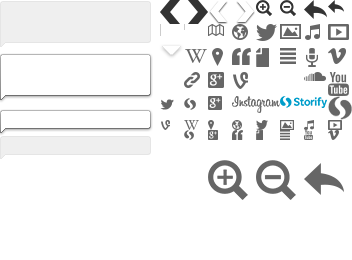
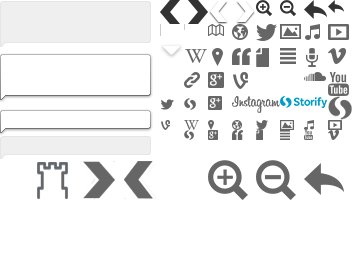
1：首页字段链接修改2：timeline工具栏优化

Changed region(s): [[0.0938, 0.6154, 0.4375, 0.7692]]

diff --git a/src/main/webapp/front/timelinef/css/timeline.css b/src/main/webapp/front/timelinef/css/timeline.css
@@ -124,7 +124,7 @@
     font-family: "Georgia",Times New Roman,Times,serif;
 }
 
-.vco-storyjs .twitter,.vco-storyjs .vcard,.vco-storyjs .messege,.vco-storyjs .credit,.vco-storyjs .caption,.vco-storyjs .zoom-in,.vco-storyjs .zoom-out,.vco-storyjs .back-home,.vco-storyjs .time-interval div,.vco-storyjs .time-interval-major div,.vco-storyjs .nav-container {
+.vco-storyjs .twitter,.vco-storyjs .vcard,.vco-storyjs .messege,.vco-storyjs .credit,.vco-storyjs .caption,.vco-storyjs .zoom-in,.vco-storyjs .zoom-next,.vco-storyjs .zoom-prev,.vco-storyjs .zoom-kk,.vco-storyjs .zoom-out,.vco-storyjs .back-home,.vco-storyjs .time-interval div,.vco-storyjs .time-interval-major div,.vco-storyjs .nav-container {
     font-family: "Helvetica Neue",Helvetica,Arial,sans-serif !important
 }
 
@@ -2025,7 +2025,7 @@
     box-shadow: 1px 1px 0 rgba(0,0,0,0.2)
 }
 
-.vco-timeline .vco-navigation .vco-toolbar .zoom-in,.vco-timeline .vco-navigation .vco-toolbar .zoom-out,.vco-timeline .vco-navigation .vco-toolbar .back-home{
+.vco-timeline .vco-navigation .vco-toolbar .zoom-in,.vco-timeline .vco-navigation .vco-toolbar .zoom-next,.vco-timeline .vco-navigation .vco-toolbar .zoom-prev,.vco-timeline .vco-navigation .vco-toolbar .zoom-kk,.vco-timeline .vco-navigation .vco-toolbar .zoom-out,.vco-timeline .vco-navigation .vco-toolbar .back-home{
     font-weight: normal;
     font-size: 10px;
     line-height: 20px;
@@ -2045,6 +2045,30 @@
 }
 
 .vco-timeline .vco-navigation .vco-toolbar .zoom-in .icon {
+    background-image: url(timeline.png?v4.4);
+    background-repeat: no-repeat;
+    background-position: -256px 0;
+    width: 24px;
+    height: 24px
+}
+
+.vco-timeline .vco-navigation .vco-toolbar .zoom-next .icon {
+    background-image: url(timeline.png?v4.4);
+    background-repeat: no-repeat;
+    background-position: -256px 0;
+    width: 24px;
+    height: 24px
+}
+
+.vco-timeline .vco-navigation .vco-toolbar .zoom-prev .icon {
+    background-image: url(timeline.png?v4.4);
+    background-repeat: no-repeat;
+    background-position: -256px 0;
+    width: 24px;
+    height: 24px
+}
+
+.vco-timeline .vco-navigation .vco-toolbar .zoom-kk .icon {
     background-image: url(timeline.png?v4.4);
     background-repeat: no-repeat;
     background-position: -256px 0;
@@ -2083,7 +2107,7 @@
     box-shadow: none
 }
 
-.vco-timeline .vco-navigation .vco-toolbar.touch .zoom-in,.vco-timeline .vco-navigation .vco-toolbar.touch .zoom-out,.vco-timeline .vco-navigation .vco-toolbar.touch .back-home {
+.vco-timeline .vco-navigation .vco-toolbar.touch .zoom-in,.vco-timeline .vco-navigation .vco-toolbar.touch .zoom-prev,.vco-timeline .vco-navigation .vco-toolbar.touch .zoom-next,.vco-timeline .vco-navigation .vco-toolbar.touch .zoom-kk,.vco-timeline .vco-navigation .vco-toolbar.touch .zoom-out,.vco-timeline .vco-navigation .vco-toolbar.touch .back-home {
     width: 40px;
     height: 40px;
     padding: 5px;
@@ -2102,9 +2126,33 @@
 }
 
 .vco-timeline .vco-navigation .vco-toolbar.touch .zoom-in .icon {
-    background-image: url(timeline.png?v4.4);
+    background-image: url(timeline.png?v4.5);
     background-repeat: no-repeat;
     background-position: -208px -160px;
+    width: 40px;
+    height: 40px
+}
+
+.vco-timeline .vco-navigation .vco-toolbar.touch .zoom-next .icon {
+    background-image: url(timeline.png?v4.5);
+    background-repeat: no-repeat;
+    background-position: -120px -160px;
+    width: 40px;
+    height: 40px
+}
+
+.vco-timeline .vco-navigation .vco-toolbar.touch .zoom-prev .icon {
+    background-image: url(timeline.png?v4.5);
+    background-repeat: no-repeat;
+    background-position: -80px -160px;
+    width: 40px;
+    height: 40px
+}
+
+.vco-timeline .vco-navigation .vco-toolbar.touch .zoom-kk .icon {
+    background-image: url(timeline.png?v4.5);
+    background-repeat: no-repeat;
+    background-position: -35px -160px;
     width: 40px;
     height: 40px
 }
@@ -2902,6 +2950,33 @@
         width: 24px;
         height: 24px
     }
+    
+    .vco-notouch .vco-navigation .vco-toolbar .zoom-kk .icon {
+        background-image:url(timeline@2x.png?v4.4);
+        background-size: 352px 260px;
+        background-repeat: no-repeat;
+        background-position: -256px 0;
+        width: 24px;
+        height: 24px
+    }
+    
+    .vco-notouch .vco-navigation .vco-toolbar .zoom-next .icon {
+        background-image:url(timeline@2x.png?v4.4);
+        background-size: 352px 260px;
+        background-repeat: no-repeat;
+        background-position: -256px 0;
+        width: 24px;
+        height: 24px
+    }
+    
+    .vco-notouch .vco-navigation .vco-toolbar .zoom-prev .icon {
+        background-image:url(timeline@2x.png?v4.4);
+        background-size: 352px 260px;
+        background-repeat: no-repeat;
+        background-position: -256px 0;
+        width: 24px;
+        height: 24px
+    }
 
     .vco-notouch .vco-navigation .vco-toolbar .zoom-out .icon {
         background-image: url(timeline@2x.png?v4.4);
@@ -2926,6 +3001,34 @@
         background-size: 352px 260px;
         background-repeat: no-repeat;
         background-position: -208px -160px;
+        width: 40px;
+        height: 40px
+    }
+    
+    .vco-notouch .vco-navigation .vco-toolbar.touch .zoom-kk .icon {
+        background-image: url(timeline@2x.png?v4.4);
+        background-size: 352px 260px;
+        background-repeat: no-repeat;
+        background-position: -35px -120px;
+        border: 1px solid;
+        width: 40px;
+        height: 40px
+    }
+    
+    .vco-notouch .vco-navigation .vco-toolbar.touch .zoom-next .icon {
+        background-image: url(timeline@2x.png?v4.4);
+        background-size: 352px 260px;
+        background-repeat: no-repeat;
+        background-position: -100px -150px;
+        width: 40px;
+        height: 40px
+    }
+
+	.vco-notouch .vco-navigation .vco-toolbar.touch .zoom-prev .icon {
+        background-image: url(timeline@2x.png?v4.4);
+        background-size: 352px 260px;
+        background-repeat: no-repeat;
+        background-position: -80px -160px;
         width: 40px;
         height: 40px
     }
@@ -2984,7 +3087,6 @@
         height: 24px
     }
 }
-
 @media screen and (-webkit-max-device-pixel-ratio: 1) {
 }
 

diff --git a/src/main/webapp/front/timelinef/js/timeline-min.js b/src/main/webapp/front/timelinef/js/timeline-min.js
@@ -48,7 +48,7 @@ function fp_10(){
 function fn_10(){
 	alert("n10");
 }
-var s = 1;
+var s = 2;
 function close_toolbar(){
 	if(s == 1){
 		$(".vco-toolbar").animate({left:'-250px'})
@@ -1594,6 +1594,9 @@ typeof VMM != "undefined" && typeof VMM.Language == "undefined" && (VMM.Language
         return_to_title: "返回",
         expand_timeline: "放大",
         contract_timeline: "缩小",
+        content_prev: "百年前",
+        content_next: "百年后",
+        content_tool: "工具栏",
         wikipedia: "From Wikipedia, the free encyclopedia",
         loading_content: "加载内容..",
         loading: "加载中.."
@@ -5194,25 +5197,16 @@ typeof VMM.Timeline != "undefined" && typeof VMM.Timeline.TimeNav == "undefined"
         if (b.touch && b.start_page) {
             VMM.Lib.addClass(v, "touch");
             //VMM.Lib.css(v, "top", 355);
-            VMM.Lib.css(v, "left", 0)
-            VMM.Lib.css(v, "border", "0px")
-            //VMM.Lib.css(v, "display", "none");display: inline-block;
-            //VMM.Lib.css(v, "display", "inline-block");
+            VMM.Lib.css(v, "left", -250);
+            VMM.Lib.css(v, "border", "0px");
+            VMM.Lib.css(v, "display", "inline-flex");
             b.start_page && VMM.Lib.css(v, "top",-47);
             
-            var style__ = "style='background-image: url(timeline.png?v4.4);background-repeat: no-repeat;background-position: -108px -160px;width: 40px;height: 40px;'";
-            m = VMM.appendAndGetElement(v, "<div>", "zoom-in smalltool", "<div class='icon'></div>");
-            g = VMM.appendAndGetElement(v, "<div>", "zoom-out smalltool", "<div class='icon'></div>");
-            p10 = VMM.appendAndGetElement(v, "<div>", "zoom-in smalltool", "<div class='icon' "+ style__ +"></div>");
-            n10 = VMM.appendAndGetElement(v, "<div>", "zoom-in smalltool", "<div class='icon' "+ style__ +"></div>");
-            c10 = VMM.appendAndGetElement(v, "<div>", "zoom-in smalltool", "<div class='icon' "+ style__ +"></div>");
-            
-            VMM.Lib.css(p10, "float", "left");
-            VMM.Lib.css(n10, "float", "left");
-            VMM.Lib.css(m, "float", "left");
-            VMM.Lib.css(g, "float", "left");
-            VMM.Lib.css($backhome, "float", "left");
-            VMM.Lib.css(c10, "float", "left");
+            m = VMM.appendAndGetElement(v, "<div>", "zoom-in", "<div class='icon'></div>");
+            g = VMM.appendAndGetElement(v, "<div>", "zoom-out", "<div class='icon'></div>");
+            p10 = VMM.appendAndGetElement(v, "<div>", "zoom-next", "<div class='icon'></div>");
+            n10 = VMM.appendAndGetElement(v, "<div>", "zoom-prev", "<div class='icon'></div>");
+            c10 = VMM.appendAndGetElement(v, "<div>", "zoom-kk", "<div class='icon'></div>");
             
             VMM.Lib.css(p10, "background", "rgba(251, 248, 251, 0.2)");
             VMM.Lib.css(n10, "background", "rgba(251, 248, 251, 0.2)");
@@ -5246,6 +5240,12 @@ typeof VMM.Timeline != "undefined" && typeof VMM.Timeline.TimeNav == "undefined"
             VMM.bindEvent(g, V, "click");
             VMM.Lib.attribute(m, "title", VMM.master_config.language.messages.expand_timeline);
             VMM.Lib.attribute(m, "rel", "timeline-tooltip");
+            VMM.Lib.attribute(p10, "title", VMM.master_config.language.messages.content_prev);
+            VMM.Lib.attribute(p10, "rel", "timeline-tooltip");
+            VMM.Lib.attribute(n10, "title", VMM.master_config.language.messages.content_next);
+            VMM.Lib.attribute(n10, "rel", "timeline-tooltip");
+            VMM.Lib.attribute(c10, "title", VMM.master_config.language.messages.content_tool);
+            VMM.Lib.attribute(c10, "rel", "timeline-tooltip");
             VMM.Lib.attribute(g, "title", VMM.master_config.language.messages.contract_timeline);
             VMM.Lib.attribute(g, "rel", "timeline-tooltip");
             v.tooltip({
